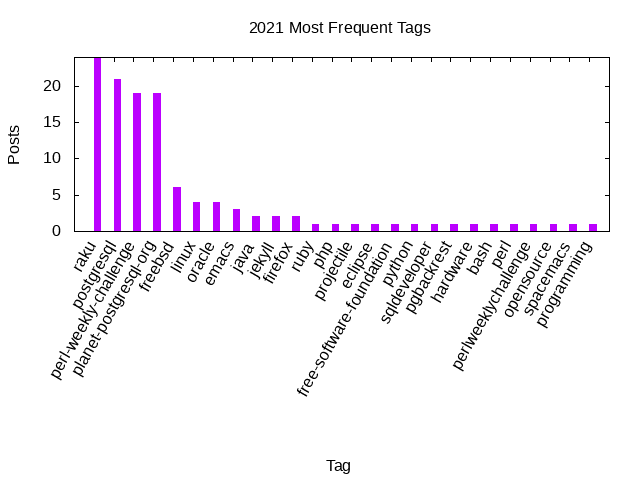
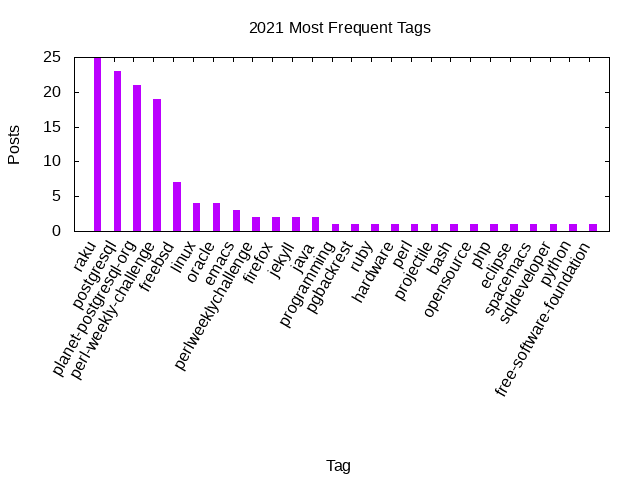
Stats update

diff --git a/_includes/stats/2021.md b/_includes/stats/2021.md
@@ -1,36 +1,36 @@
 <a name="2021" />
 ## 2021 (work in progress)
 
-**57 total posts** have been written on 2021.
+**60 total posts** have been written on 2021.
 There have been *26 different tags* used, the most
 popular being (sorted by number of posts):
  
-- *raku* (24 posts)  
-- *postgresql* (21 posts)  
+- *raku* (25 posts)  
+- *postgresql* (23 posts)  
+- *planet-postgresql-org* (21 posts)  
 - *perl-weekly-challenge* (19 posts)  
-- *planet-postgresql-org* (19 posts)  
-- *freebsd* (6 posts)  
+- *freebsd* (7 posts)  
 - *linux* (4 posts)  
 - *oracle* (4 posts)  
 - *emacs* (3 posts)  
-- *java* (2 posts)  
-- *jekyll* (2 posts)  
+- *perlweeklychallenge* (2 posts)  
 - *firefox* (2 posts)  
-- *ruby* (1 posts)  
-- *php* (1 posts)  
-- *projectile* (1 posts)  
-- *eclipse* (1 posts)  
-- *free-software-foundation* (1 posts)  
-- *python* (1 posts)  
-- *sqldeveloper* (1 posts)  
+- *jekyll* (2 posts)  
+- *java* (2 posts)  
+- *programming* (1 posts)  
 - *pgbackrest* (1 posts)  
+- *ruby* (1 posts)  
 - *hardware* (1 posts)  
-- *bash* (1 posts)  
 - *perl* (1 posts)  
-- *perlweeklychallenge* (1 posts)  
+- *projectile* (1 posts)  
+- *bash* (1 posts)  
 - *opensource* (1 posts)  
+- *php* (1 posts)  
+- *eclipse* (1 posts)  
 - *spacemacs* (1 posts)  
-- *programming* (1 posts).<br/>
+- *sqldeveloper* (1 posts)  
+- *python* (1 posts)  
+- *free-software-foundation* (1 posts).<br/>
 <br/>
 The following is the overall 2021 post ratio by month:
 <br/>
@@ -49,7 +49,7 @@ The following is the overall 2021 post ratio by tag (showing max 30 tags):
 
 <div align="right">
 <small>
-Last generated on 2021-06-03 at 14:42
+Last generated on 2021-06-08 at 15:55
 </small>
 </div>
 
